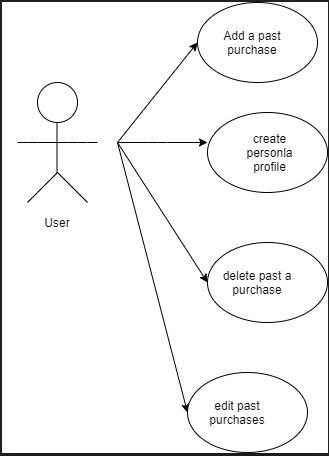
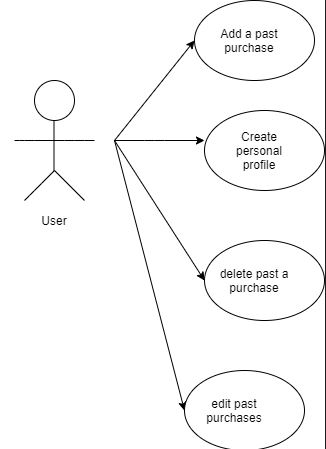
personal profile use case

diff --git a/requirements.md b/requirements.md
@@ -50,8 +50,8 @@
   * **Use-Cases**
     * Use-Case: Add Past Purchase
     * Actor: General User
-    * Description: User adds a purchase that they have made in the past to be evaluated
-    * Pre-Conditions: User Has Installed the App and created a basic profile, App is open
+    * Description: User adds a purchase that they have made in the past to be evaluated.
+    * Pre-Conditions: User Has Installed the App and created a basic profile, App is open.
     * Post Conditions: The User confirms the details have been submitted and closes the app.
     * Flow:  
       1. User selects the add purchase option
@@ -65,6 +65,22 @@
       9. Purchase is added to history graph
       <hr/>
     * Use-Case: Create A Personal Profile
+    * Actor: General User
+    * Description: User creates a personal profile to be user for later comparisons.
+    * Pre-Conditions: User Has Installed the App, App is open.
+    * Post Conditions: User confirms their personal info is correct and close the app or continue to adding a purchase
+    * Flow:  
+      1. User Opens the app for the first time
+      2. App prompts user to create their profile
+      3. User accepts the on screen prompt
+      4. App prompts user for basic info (Name, age...)
+      5. User enters information as promted
+      6. User enters simplified financial information
+      7. App prompts user to define their "value item"
+      8. User defines "value item"
+      9. App stores value item and all info for later use  
+      <hr/>
+    * Use-Case: 
     * Actor:
     * Description:
     * Pre-Conditions:
